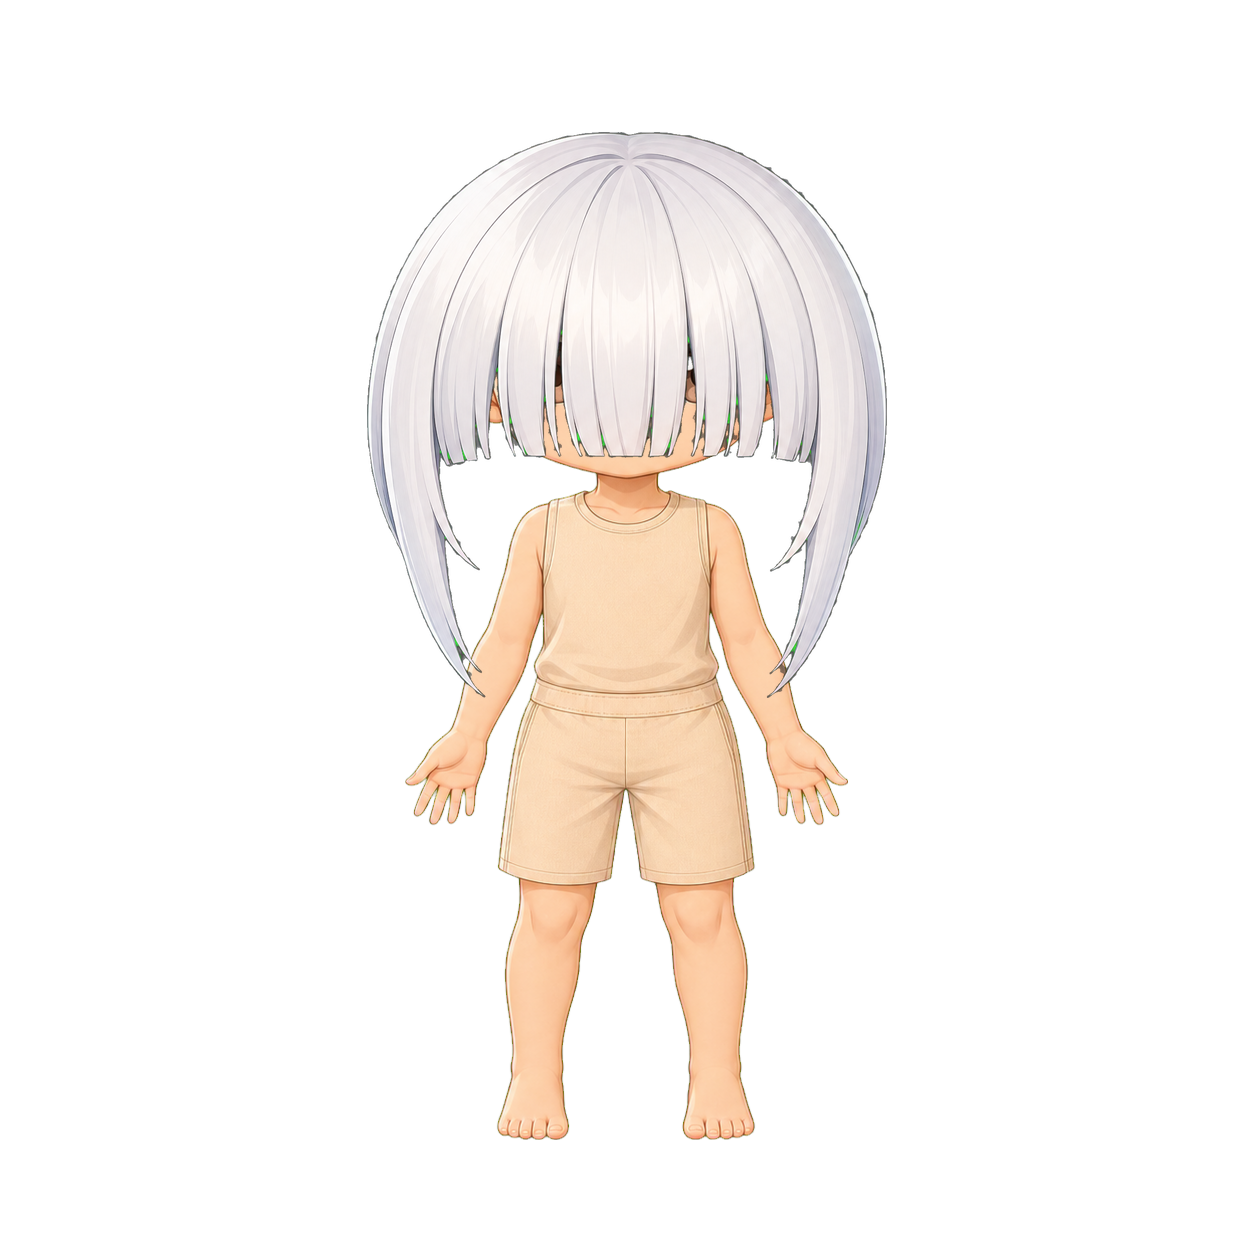
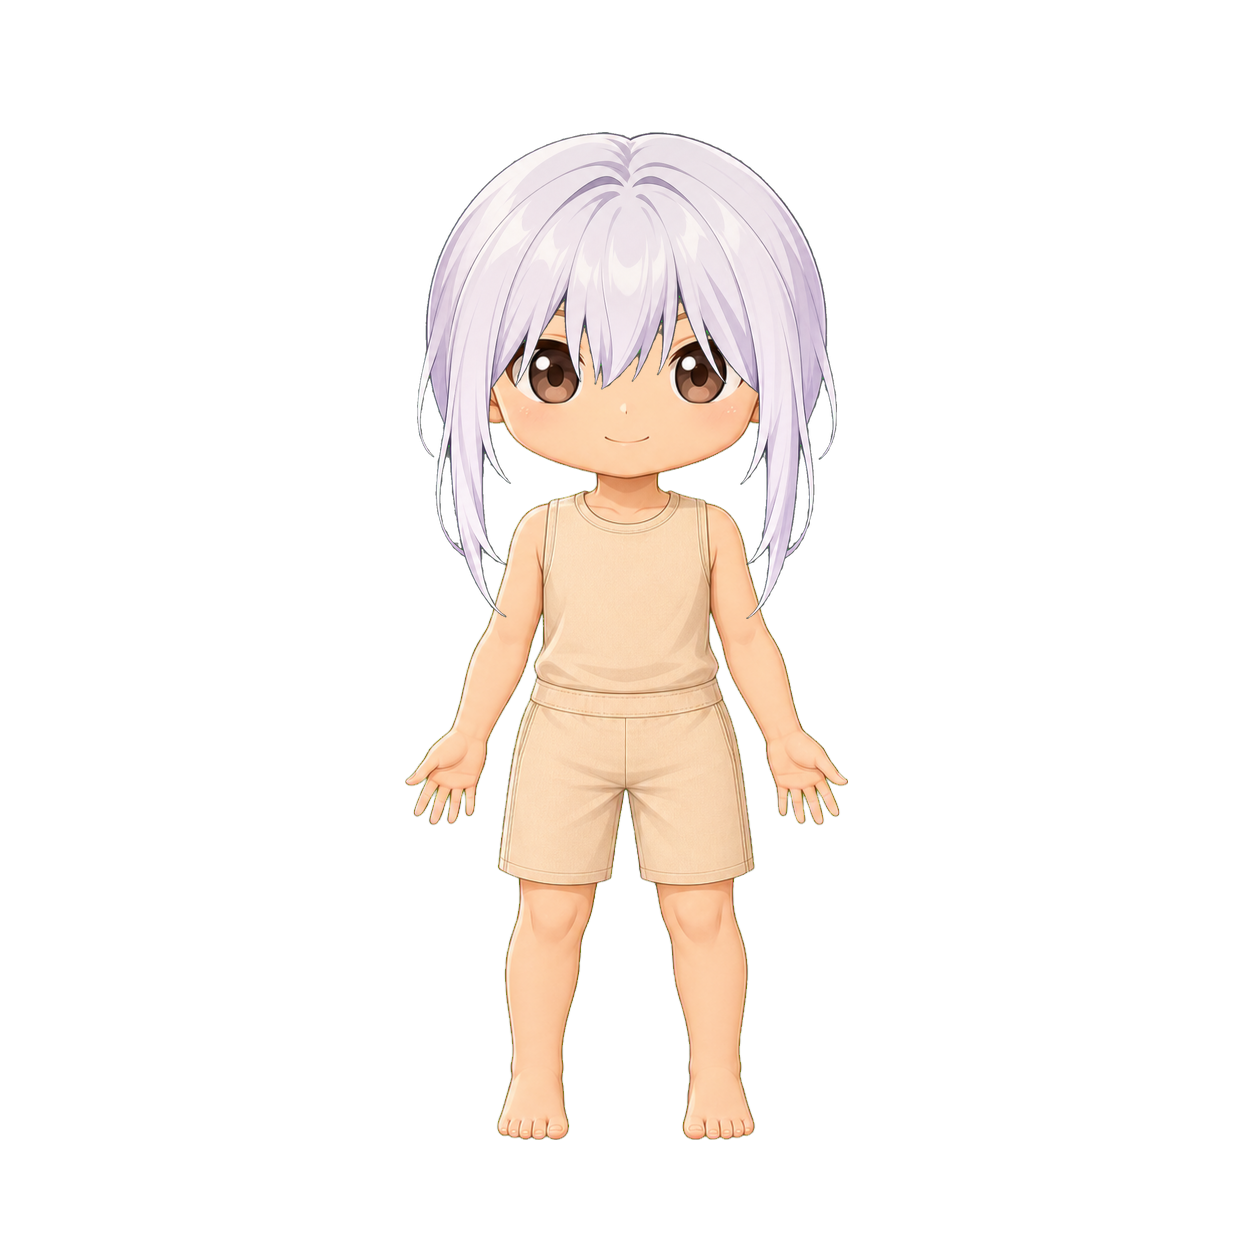
Register revised silver front hair trait

Changed region(s): [[0.2799, 0.0933, 0.7153, 0.5598]]

diff --git a/docs/qa/face_completion_pilot_hair_front_003_attempt_005_2026-08-15.md b/docs/qa/face_completion_pilot_hair_front_003_attempt_005_2026-08-15.md
@@ -1,0 +1,25 @@
+# QA — Face-completion pilot: hair-front 003 attempt 005
+
+**Date:** 2026-08-15
+**Backlog ID:** DG-117
+**Registered asset:** `assets/hair_front/hair_front_003_silver_straight_bangs.png`
+**Immutable generator source:** `images/trait_candidates/hair_front/hair_front_003_silver_straight_bangs_candidate_attempt_005.png`
+**Registration route:** `scripts/normalize_generator_source.py` → `scripts/bulk_intake.py --register-approved DG-117`
+
+## Approval
+
+**Approved and registered.** The candidate is the first production trait promoted under the generator-source transformation workflow. It passed automated transform-provenance, binary, alpha, locked-canvas, bounds, width-ratio, and base-body composite gates, then passed human art-direction review in the full registered context.
+
+| Check | Result | Evidence |
+|---|---|---|
+| Immutable source | Pass | RGBA 1920 × 1920 source; SHA-256 is recorded in the manifest provenance |
+| Controlled transform | Pass | Alpha cleanup threshold 120, transparent-margin crop, premultiplied LANCZOS reduction only, centered locked-rig placement |
+| Final asset | Pass | 1254 × 1254 RGBA PNG with genuine transparent alpha |
+| Rig gate | Pass | Bounds `[417,132,836,618]`; width ratio 0.95x, below the 1.35x hair-front ceiling |
+| Intake provenance | Pass | Source and normalized-output digests verified before promotion |
+| Human art review | Pass | Eyes, eyebrows, nose, and mouth remain visible; front layer blends credibly into the registered silver rear hair |
+| Compatibility | Pass | Registration added `hair_front_003_silver_straight_bangs.png → hair_back_003_silver_long_wavy.png` |
+
+## Visual review
+
+The revised short fringe keeps the facial focal area visible while supplying a clear silver hair silhouette. Its controlled scale and thin temple strands integrate with the registered rear-hair layer rather than creating the oversized, face-covering helmet form rejected in the earlier pilot. The full-context review is preserved at `docs/qa/face_completion_pilot_hair_front_003_attempt_005_full_context.png`; the automated intake report is `docs/qa/face_completion_pilot_hair_front_003_attempt_005_report.json`.

diff --git a/docs/oversight_visual_review_2026-08-15.md b/docs/oversight_visual_review_2026-08-15.md
@@ -27,3 +27,9 @@ The five reviewed pose-aware modular outfits retain compatible line weight, warm
 The normalized DG-117 hair-front candidate passed binary, alpha, locked-canvas, bounds, and width-ratio gates after the documented reduction-only transform. The full-context composite nevertheless **fails human art-direction review**. The fringe descends across the eye line and largely obscures the character’s face; the hair mass also reads too large and helmet-like relative to the registered head and rear-hair silhouette. Small green residual artifacts are visible at several strand boundaries, and the layer does not yet resolve cleanly into the rear-hair mass.
 
 The candidate must remain unregistered. The revised source-transform policy is therefore validated as a technically safe intake route, but not as a bypass of creative QA. The next generator prompt must explicitly enforce a shorter fringe terminating above the eye line, paired-rear-hair silhouette compatibility, and a clear visible face opening. The first source remains valuable as a style reference but is not an approved production asset.
+
+## Revised DG-117 Hair-Front Review — Attempt 005
+
+The revised DG-117 source produces a materially improved normalized candidate. In the full-context composite, both eyes, eyebrows, nose, and mouth remain legible; the fringe reads as a short, centered chibi bang set rather than a face-obscuring curtain. The scaled front layer also integrates credibly with the registered silver rear-hair mass and preserves the celestial-scholar outfit’s silhouette. No dominant matte, green edge, clipping, or layer-order defect is visible at review scale.
+
+**Art-direction disposition: approved for registration, subject to the standard provenance-aware intake result and the required automatic hair-pairing rule.** The candidate should be recorded as a generator-source transform, not as direct native generation. It establishes a usable quality reference for subsequent front-hair prompts: clear eyes and mouth, compact fringe, thin temple framing, and controlled blend with the matching rear layer.

diff --git a/docs/trait-production-backlog.md b/docs/trait-production-backlog.md
@@ -257,7 +257,7 @@ The 24 eye pairs below are distinct visible cells in the dedicated facial-trait 
 |---|---|---|---|---|---|---|---|
 | DG-115 | hair front | Gold-blonde parted bangs and face-framing strands | `HAIR`, lower row cell 1 | Matching DG-029 and approved face opening | `assets/hair_front/hair_front_001_gold_parted_bangs.png` | `prompts/05_hair_front.md` | pending |
 | DG-116 | hair front | Black side-swept bangs and face-framing strands | `HAIR`, lower row cell 2 | DG-115 representative test; matching DG-030 | `assets/hair_front/hair_front_002_black_side_swept.png` | `prompts/05_hair_front.md` | pending |
-| DG-117 | hair front | White-silver straight bangs and face-framing strands | `HAIR`, lower row cell 3 | Matching DG-031 | `assets/hair_front/hair_front_003_silver_straight_bangs.png` | `prompts/05_hair_front.md` | pending |
+| DG-117 | hair front | White-silver straight bangs and face-framing strands | `HAIR`, lower row cell 3 | Matching DG-031 | `assets/hair_front/hair_front_003_silver_straight_bangs.png` | `prompts/05_hair_front.md` | registered |
 | DG-118 | hair front | Violet parted bangs and face-framing strands | `HAIR`, lower row cell 4 | Matching DG-032 | `assets/hair_front/hair_front_004_violet_parted_bangs.png` | `prompts/05_hair_front.md` | pending |
 | DG-119 | hair front | Deep-blue pointed bangs and face-framing strands | `HAIR`, lower row cell 5 | Matching DG-033 | `assets/hair_front/hair_front_005_blue_pointed_bangs.png` | `prompts/05_hair_front.md` | pending |
 | DG-120 | hair front | Pink soft bangs and face-framing strands | `HAIR`, lower row cell 6 | Matching DG-034 | `assets/hair_front/hair_front_006_pink_soft_bangs.png` | `prompts/05_hair_front.md` | pending |

diff --git a/docs/production_status.md b/docs/production_status.md
@@ -18,7 +18,7 @@ The block below is generated from `assets/asset_manifest.json` and `docs/trait-p
 
 Generated by `python scripts/report_production_status.py --write`. Do not edit this block by hand.
 
-- Registered production assets: **32**
+- Registered production assets: **33**
 - Distinct backlog assets: **160**
 - Completed categories: **3 of 16** (backgrounds, base_bodies, global_finish)
 
@@ -35,13 +35,13 @@ Generated by `python scripts/report_production_status.py --write`. Do not edit t
 | `eyebrows` | 0 | 16 | 16 | not started |
 | `mouths` | 0 | 12 | 12 | not started |
 | `expression_marks` | 0 | 8 | 8 | not started |
-| `hair_front` | 0 | 8 | 8 | not started |
+| `hair_front` | 1 | 8 | 7 | in progress |
 | `head_accessories` | 0 | 10 | 10 | not started |
 | `hand_objects` | 0 | 12 | 12 | not started |
 | `front_auras` | 0 | 2 | 2 | not started |
 | `global_finish` | 3 | 3 | 0 | complete |
 
-Backlog status tally: pending 128, candidate 0, QA-failed 0, approved 0, registered 33.
+Backlog status tally: pending 127, candidate 0, QA-failed 0, approved 0, registered 34.
 
 <!-- END GENERATED PRODUCTION LEDGER -->
 
